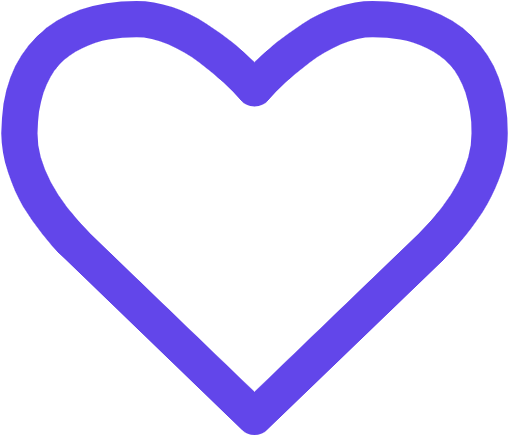
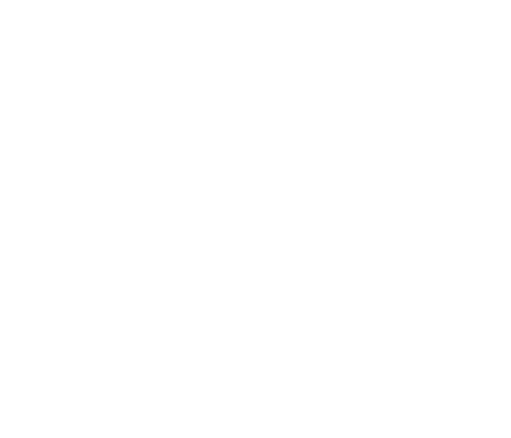
like buttons with background

Changed region(s): [[0.0, 0.0, 0.998, 1.0]]

diff --git a/frontend/src/components/app/users/UserProfile.vue b/frontend/src/components/app/users/UserProfile.vue
@@ -33,13 +33,13 @@
       </div>
     </div>
     <div class="text-center flex flex-col mx-auto p-8 border-b">
-      <div class="w-full flex justify-center items-center border border-purple-matcha py-2 rounded-lg cursor-pointer">
+      <div class="w-full flex justify-center items-center bg-purple-matcha py-4 rounded-lg cursor-pointer">
         <img src="../../../assets/heart.png" class="h-8">
-        <h1 class="text-purple-matcha text-2xl ml-2 font-semibold">Like</h1>
+        <h1 class="text-white-matcha text-2xl ml-2 font-bold">Like</h1>
       </div>
-      <div class="w-full flex justify-center items-center border border-purple-matcha mt-8 py-2 rounded-lg cursor-pointer">
+      <div class="w-full flex justify-center items-center bg-purple-matcha mt-8 py-4 rounded-lg cursor-pointer">
         <img src="../../../assets/superLike.png" class="h-8">
-        <h1 class="text-purple-matcha text-2xl ml-2 font-semibold">Super Like</h1>
+        <h1 class="text-white-matcha text-2xl ml-2 font-bold">Super Like</h1>
       </div>
       <h1 class="text-purple-matcha text-sm mt-2">Worth 10 likes, and {{user.first_name}} sees your extra interest</h1>
     </div>
